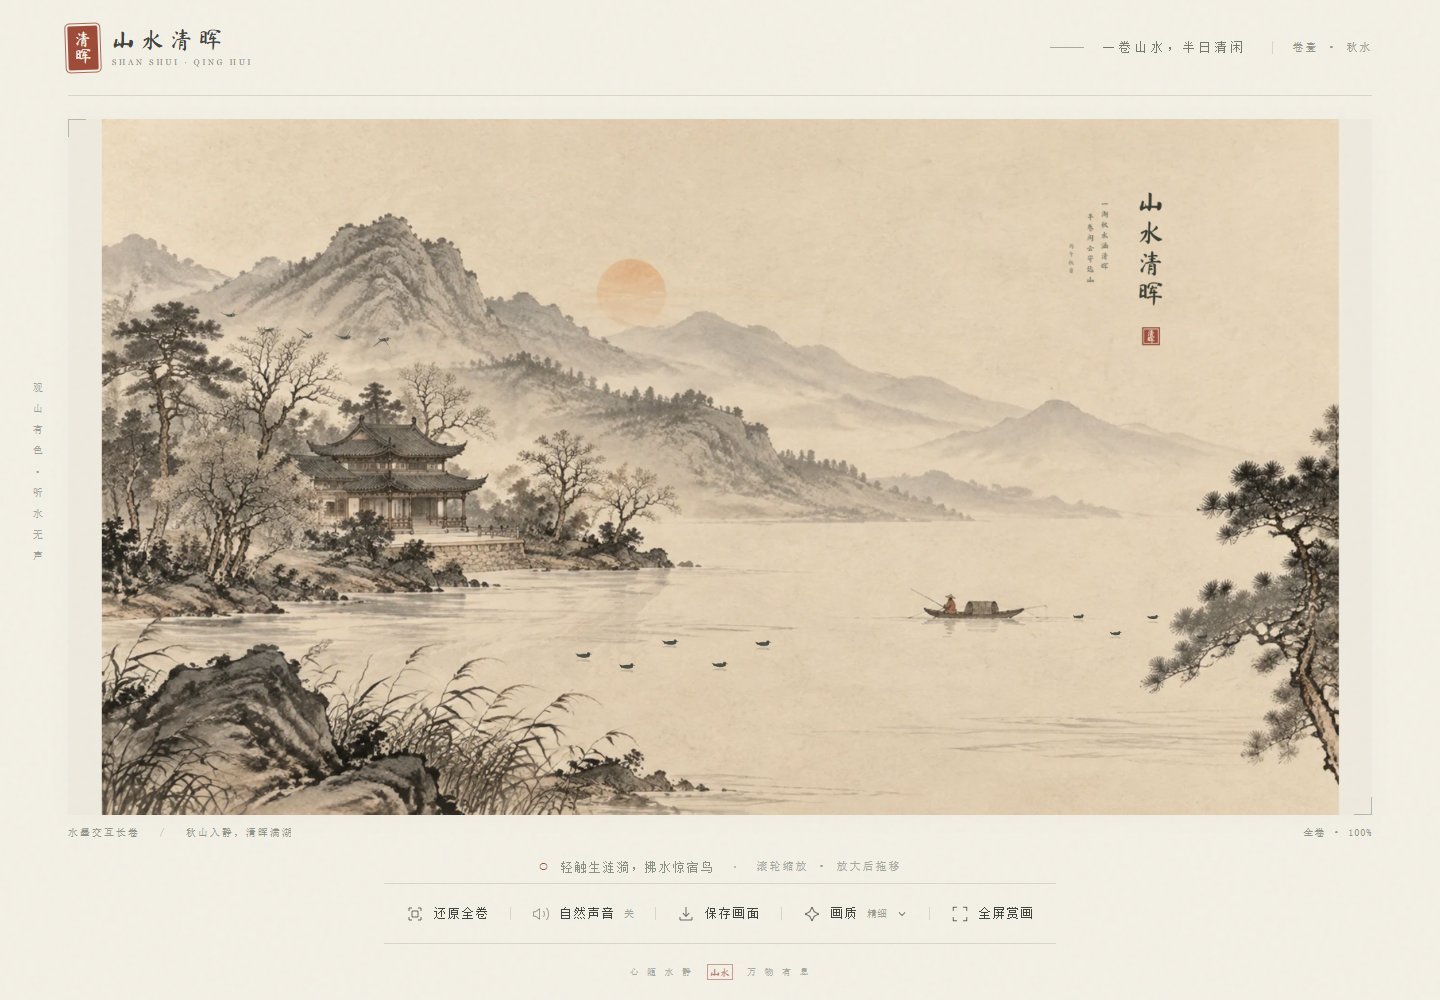
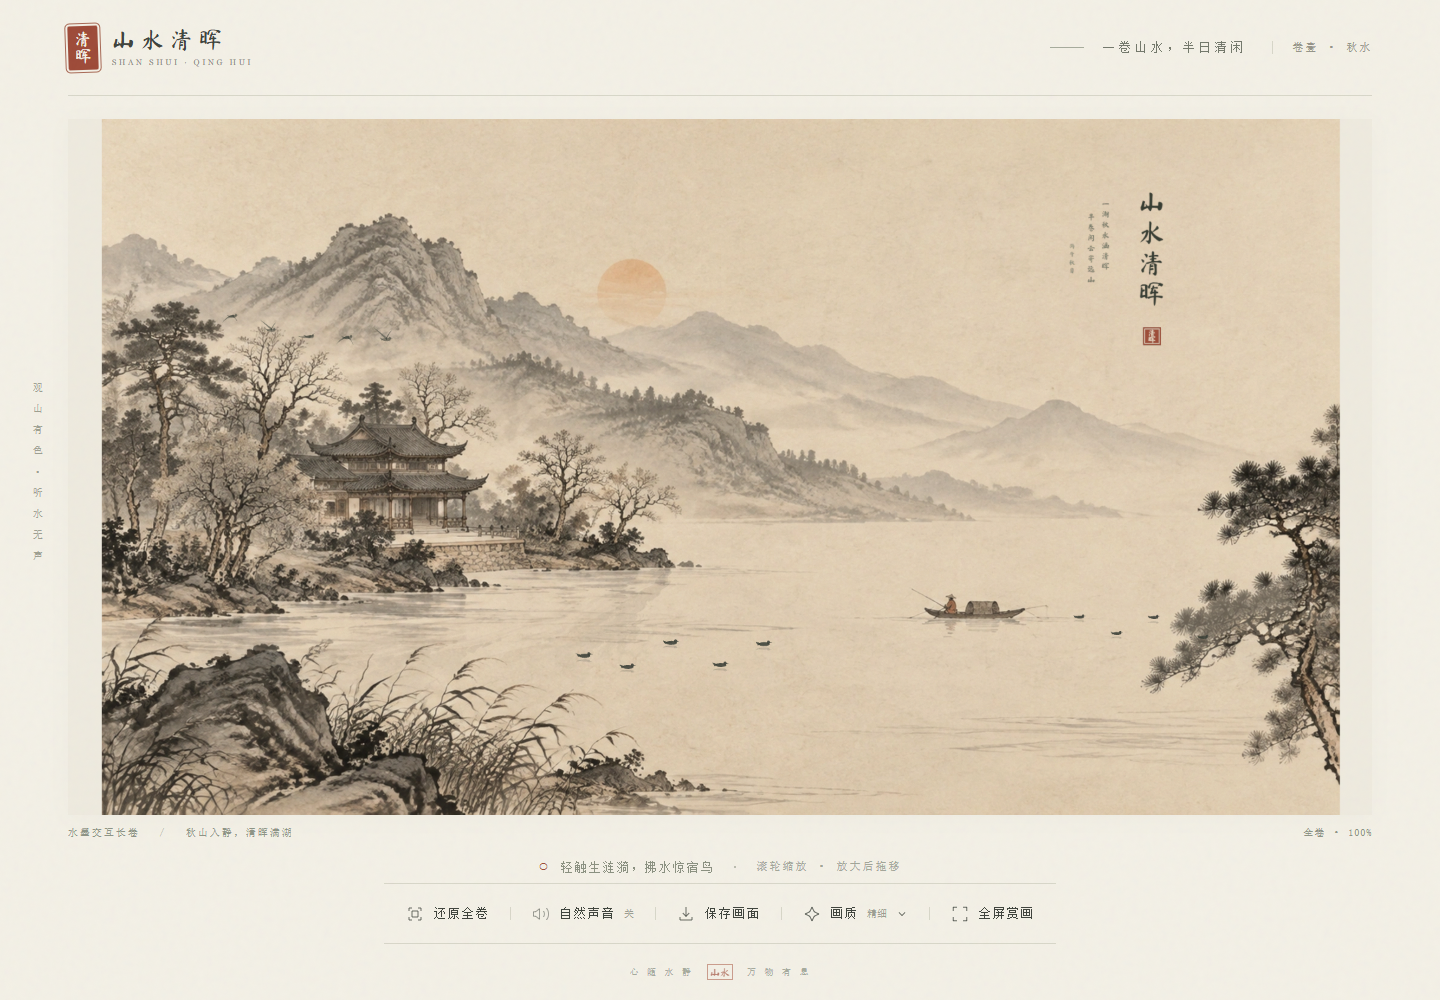
Refine ink texture and scroll reveal

diff --git a/src/main.js b/src/main.js
@@ -1,7 +1,7 @@
 import * as THREE from 'three';
 import {Birds} from './birds.js';
 import {Soundscape} from './audio.js';
-import {vertexShader,waterFragment} from './shaders.js';
+import {vertexShader,waterFragment,paperFragment} from './shaders.js';
 
 const $=s=>document.querySelector(s);
 const viewport=$('#viewport'),canvas=$('#painting'),sound=new Soundscape();
@@ -37,10 +37,12 @@ async function initialize(){
   const paper=new THREE.Mesh(geometry,new THREE.MeshBasicMaterial({map:art}));paper.position.set(8,4.5,0);scene.add(paper);
   water=new THREE.Mesh(geometry,new THREE.ShaderMaterial({vertexShader,fragmentShader:waterFragment,uniforms:{uArt:{value:art},uMask:{value:mask},uReflection:{value:reflection},uTime:{value:0},uRipples:{value:rippleUniform}},transparent:true,depthWrite:false}));
   water.position.set(8,4.5,.05);scene.add(water);
+  const paperVeil=new THREE.Mesh(geometry,new THREE.ShaderMaterial({vertexShader,fragmentShader:paperFragment,transparent:true,depthWrite:false}));
+  paperVeil.position.set(8,4.5,.15);scene.add(paperVeil);
   birds=new Birds(scene,{ripple:addRipple,sound});
   await document.fonts.load('40px InkKai');
   createInscription();resize();bindControls();
-  state.ready=true;document.documentElement.dataset.shanshuiReady='true';clearTimeout(window.__shanshuiBootWatchdog);viewport.classList.add('is-ready');$('#load-error').hidden=true;$('#loader').classList.add('leaving');setTimeout(()=>$('#loader').hidden=true,1000);
+  state.ready=true;document.documentElement.dataset.shanshuiReady='true';clearTimeout(window.__shanshuiBootWatchdog);viewport.classList.add('is-ready','is-unrolling');$('#load-error').hidden=true;$('#loader').classList.add('leaving');setTimeout(()=>{ $('#loader').hidden=true;viewport.classList.remove('is-unrolling'); },2350);
   renderer.setAnimationLoop(render);
   // Read-only inspection interface for interaction QA, coordinate probes and screenshots.
   window.__SHANSHUI={
@@ -72,7 +74,7 @@ function addRipple(u,v,strength=.85){
 }
 function disturbAt(p,strength=.85){
   if(!p||!isWater(p.u,p.v))return;
-  if(addRipple(p.u,p.v,strength))sound.water(strength);
+  addRipple(p.u,p.v,strength);
   const count=birds.disturb(p.u,p.v,state.time);state.disturbed+=count;
 }
 function screenToArt(clientX,clientY){
@@ -82,6 +84,11 @@ function screenToArt(clientX,clientY){
 }
 function resize(){
   const w=viewport.clientWidth,h=viewport.clientHeight;
+  const artScale=Math.min(w/16,h/9);
+  viewport.style.setProperty('--art-left',`${(w-artScale*16)/2}px`);
+  viewport.style.setProperty('--art-top',`${(h-artScale*9)/2}px`);
+  viewport.style.setProperty('--art-width',`${artScale*16}px`);
+  viewport.style.setProperty('--art-height',`${artScale*9}px`);
   const dpr=window.devicePixelRatio||1;
   const ratios={fine:Math.min(2,Math.max(1.5,dpr*1.5)),balanced:Math.min(1.25,dpr),light:Math.max(.7,Math.min(.8,dpr*.7))};
   renderer.setPixelRatio(ratios[state.quality]);

diff --git a/style.css b/style.css
@@ -26,8 +26,53 @@
   object-fit: contain;
   z-index: 0;
 }
-#painting { position: relative; z-index: 1; opacity: 0; transition: opacity .5s ease; }
-#viewport.is-ready #painting { opacity: 1; }
+#painting { position: relative; z-index: 1; opacity: 0; clip-path: inset(0 100% 0 0); transition: opacity .5s ease; }
+#viewport.is-ready #painting { opacity: 1; animation: scroll-unroll 1.9s cubic-bezier(.22,.8,.24,1) both; }
+#painting-fallback { opacity: 1; transition: opacity .72s ease .2s; }
+#viewport.is-ready #painting-fallback { opacity: 0; }
+#scroll-roll { display: none; }
+#viewport.is-unrolling #loader { transition-duration: 1.9s; }
+#viewport.is-unrolling #scroll-roll {
+  display: block;
+  position: absolute;
+  z-index: 3;
+  pointer-events: none;
+  left: var(--art-left, 0px);
+  top: var(--art-top, 0px);
+  width: var(--art-width, 100%);
+  height: var(--art-height, 100%);
+  animation: roll-across 1.9s cubic-bezier(.22,.8,.24,1) both;
+}
+#scroll-roll span {
+  position: absolute;
+  top: -1px;
+  bottom: -1px;
+  left: 0;
+  width: clamp(22px, 3.2%, 48px);
+  border-radius: 3px;
+  background: linear-gradient(90deg, #554731 0%, #aa9870 12%, #f5efd9 37%, #e9dfc6 75%, #82745a 100%);
+  box-shadow: 5px 0 12px rgb(57 46 29 / 22%), inset 1px 0 2px rgb(255 255 240 / 65%);
+  animation: roll-head 1.9s cubic-bezier(.22,.8,.24,1) both;
+}
+@keyframes scroll-unroll {
+  0% { clip-path: inset(0 100% 0 0); transform: scaleX(.985); transform-origin: left center; }
+  100% { clip-path: inset(0 0 0 0); transform: scaleX(1); transform-origin: left center; }
+}
+@keyframes roll-across {
+  0% { opacity: 0; }
+  4%, 82% { opacity: .96; }
+  100% { opacity: 0; }
+}
+@keyframes roll-head {
+  0% { transform: translateX(0); }
+  100% { transform: translateX(calc(var(--art-width, 100%) - 100%)); }
+}
+@media (prefers-reduced-motion: reduce) {
+  #painting { transition: none; animation: none !important; clip-path: none; }
+  #painting-fallback { transition: none; }
+  #viewport.is-ready #painting-fallback { opacity: 0; }
+  #scroll-roll { display: none !important; }
+}
 #loader, #load-error { z-index: 2; }
 #load-error {
   position: absolute;

diff --git a/src/shaders.js b/src/shaders.js
@@ -2,6 +2,20 @@ export const vertexShader = `
 varying vec2 vUv;
 void main(){ vUv=uv; gl_Position=projectionMatrix*modelViewMatrix*vec4(position,1.0); }
 `;
+
+export const paperFragment = `
+precision highp float;
+varying vec2 vUv;
+void main(){
+  vec2 coarse=floor(vUv*vec2(1500.0,900.0));
+  vec2 fine=floor(vUv*vec2(3200.0,1900.0));
+  float grain=fract(sin(dot(coarse,vec2(12.9898,78.233)))*43758.5453);
+  float fibre=fract(sin(dot(fine,vec2(31.17,11.73)))*17943.17);
+  float edge=pow(clamp(distance(vUv,vec2(.5))*1.35,0.0,1.0),2.2);
+  float alpha=clamp(.017+(grain-.5)*.018+(fibre-.5)*.008+edge*.022,.006,.065);
+  gl_FragColor=vec4(vec3(.31,.27,.19),alpha);
+}
+`;
 export const waterFragment = `
 precision highp float;
 uniform sampler2D uArt;

diff --git a/src/audio.js b/src/audio.js
@@ -45,13 +45,6 @@ export class Soundscape {
       osc.connect(g).connect(this.master);osc.start(start);osc.stop(start+.24);
     }
   }
-  water(strength=.7){
-    if(!this.enabled)return;
-    const c=this.context,t=c.currentTime,osc=c.createOscillator(),g=c.createGain();
-    osc.type='sine';osc.frequency.setValueAtTime(520,t);osc.frequency.exponentialRampToValueAtTime(140,t+.2);
-    g.gain.setValueAtTime(0,t);g.gain.linearRampToValueAtTime(.011*strength,t+.02);g.gain.exponentialRampToValueAtTime(.0001,t+.52);
-    osc.connect(g).connect(this.master);osc.start();osc.stop(t+.5);
-  }
   flap(strength=.6){
     if(!this.enabled)return;
     const c=this.context,t=c.currentTime,n=c.createBufferSource(),f=c.createBiquadFilter(),g=c.createGain();

diff --git a/index.html b/index.html
@@ -22,6 +22,7 @@
       <img id="painting-fallback" src="./assets/landscape.webp" alt="山水清晖水墨画卷">
       <canvas id="painting"></canvas>
       <div id="loader"><span class="loading-seal">入境</span><p>铺纸 · 候墨</p></div>
+      <div id="scroll-roll" aria-hidden="true"><span></span></div>
       <div id="load-error" hidden role="status"><strong>水墨画卷已为你展开</strong><span id="load-error-detail">当前浏览器无法启动交互画面，仍可欣赏完整画作。请尝试使用系统浏览器打开。</span></div>
       <div class="corner corner-tl"></div><div class="corner corner-br"></div>
       <div id="water-cursor" aria-hidden="true"><span></span></div>

diff --git a/src/birds.js b/src/birds.js
@@ -66,7 +66,7 @@ export class Birds {
         else if(t<2.5){b.state='takeoff';activity=smooth(.75,1.2,t);}
         else if(t<9){b.state='flight';activity=1;}
         else if(t<12.8){b.state='landing';activity=1-smooth(11.5,12.8,t);}
-        else{b.state='rest';b.start=Infinity;b.cycles++;this.ripple(b.home.u,b.home.v,.38);this.sound.water(.4);}
+        else{b.state='rest';b.start=Infinity;b.cycles++;this.ripple(b.home.u,b.home.v,.38);}
         if(t>=.75&&t<12.8){
           const p=(t-.75)/12.05;
           excursion=Math.sin(Math.PI*p)*(.8+.12*Math.sin(p*6.28+b.phase));

diff --git a/scripts/prepare_assets.py b/scripts/prepare_assets.py
@@ -43,8 +43,8 @@ alpha = (matte * fade * np.clip((ink - .015) * 1.9, 0, .32)).astype(np.uint8)
 rgba = Image.fromarray(np.dstack((reflected, alpha)), 'RGBA')
 rgba.save(ROOT / 'assets/reflection.png', optimize=True)
 
-# Make the navigational layer fast to download while retaining the original master.
-preview = source.resize((1536, 864), Image.Resampling.LANCZOS)
-preview.save(ROOT / 'assets/landscape.webp', 'WEBP', quality=88, method=6)
+# Preserve the master's fine roof lines, rock texture and dry brush strokes.
+# WebP still keeps the full-resolution painting comfortably below one megabyte.
+source.save(ROOT / 'assets/landscape.webp', 'WEBP', quality=96, method=6)
 
 print(f'landscape={w}x{h}, water pixels={(matte > 220).sum()}, reflection coverage={(alpha > 0).sum()}')
